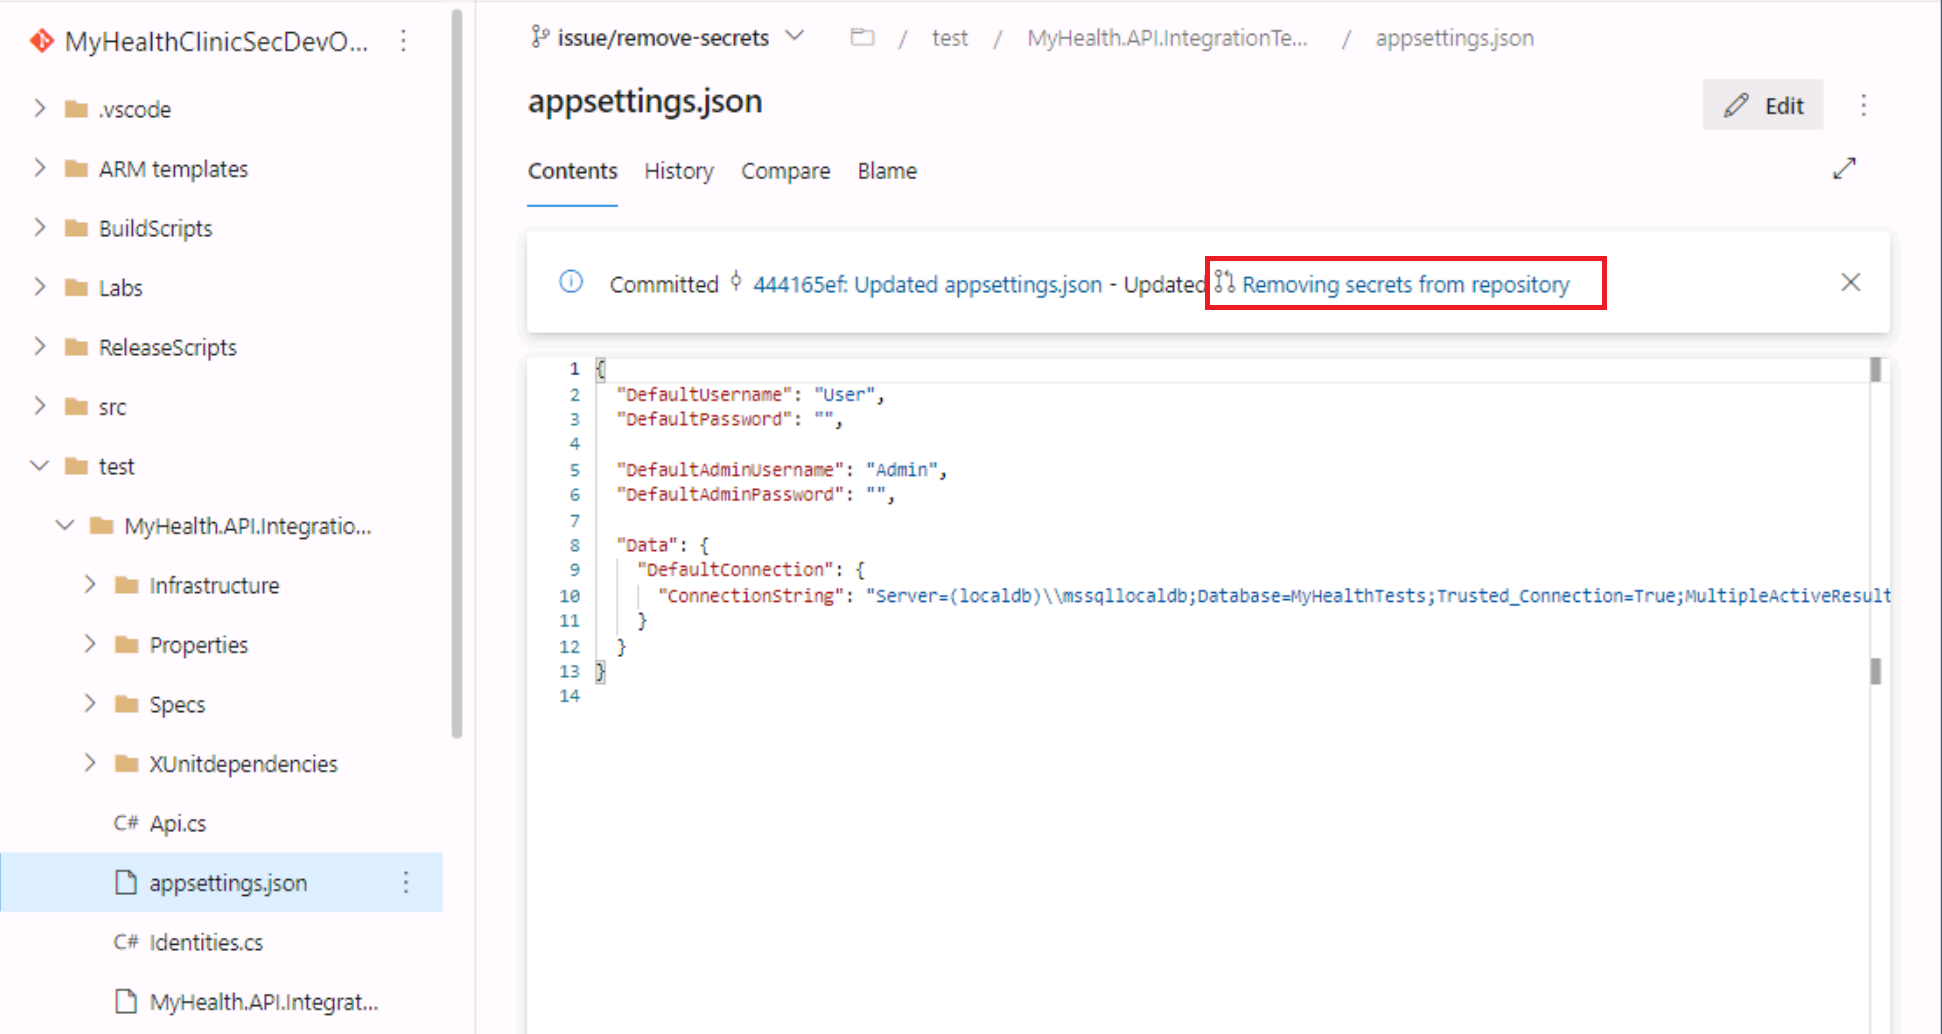
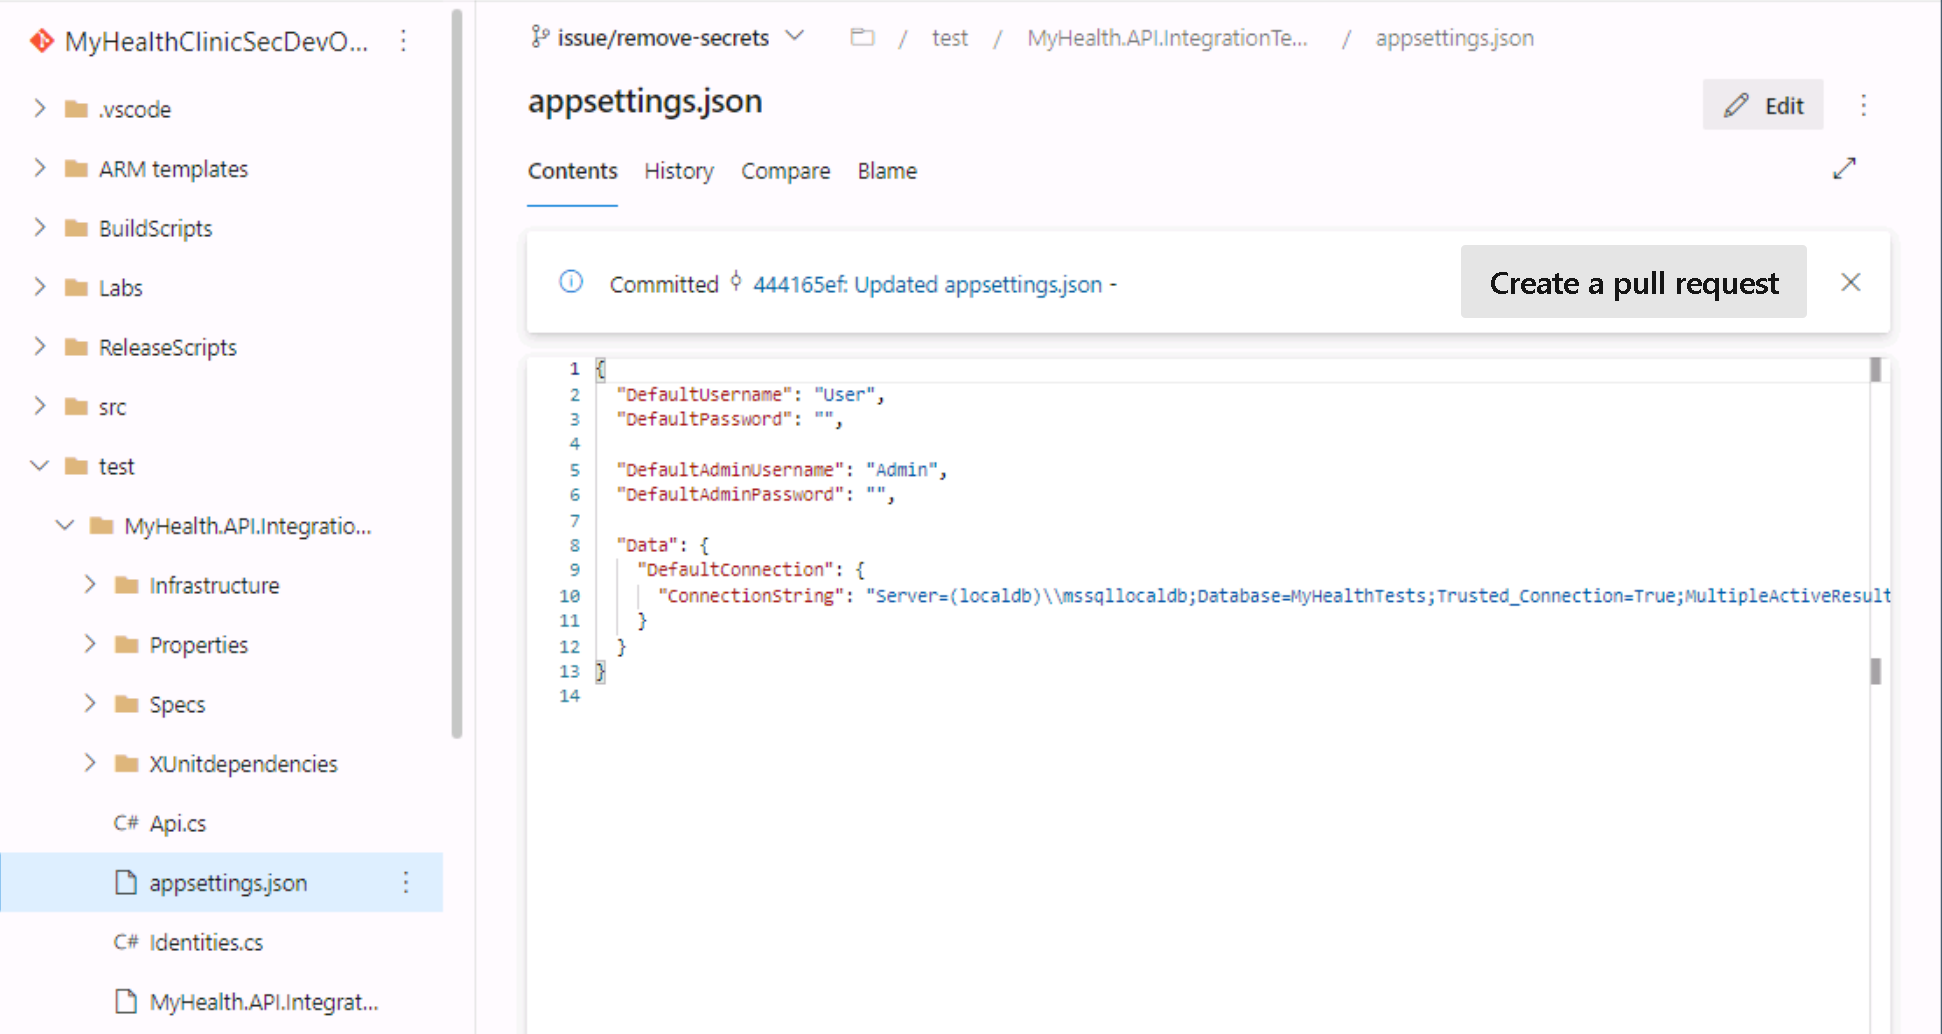
Removing duplication

Changed region(s): [[0.587, 0.2166, 0.9578, 0.3095]]

diff --git a/Labs/Module-8-Manual-Verification-With-Azure-DevOps.md b/Labs/Module-8-Manual-Verification-With-Azure-DevOps.md
@@ -126,11 +126,7 @@ This process is an important place to add security inside the pull request proce
 
     ![](./images/Module8-PullRequest8.png =500x)
 
-    Select the work item `Suppress secrets from source code` then click on`Commit`
-
-    ![](./images/Module8-PullRequest8.png =500x)
-
-    Click on `Suppress secrets from source code` link to navigate to the open Pull request
+    Click on `Create a pull request` button to navigate to the open Pull request
 
     ![](./images/Module8-PullRequest9.png =800x)
 
@@ -153,7 +149,7 @@ This process is an important place to add security inside the pull request proce
     >NOTE!: It's a good practice to complete the work item and delete the work branch
     >
     >you can always check from the history of the work item which branch the changes come from
-    > 
+    >
     >who approved the pull-request, and have the traceability end-to-end from this process
 
      ![](./images/Module8-PullRequest12.png =500x)
